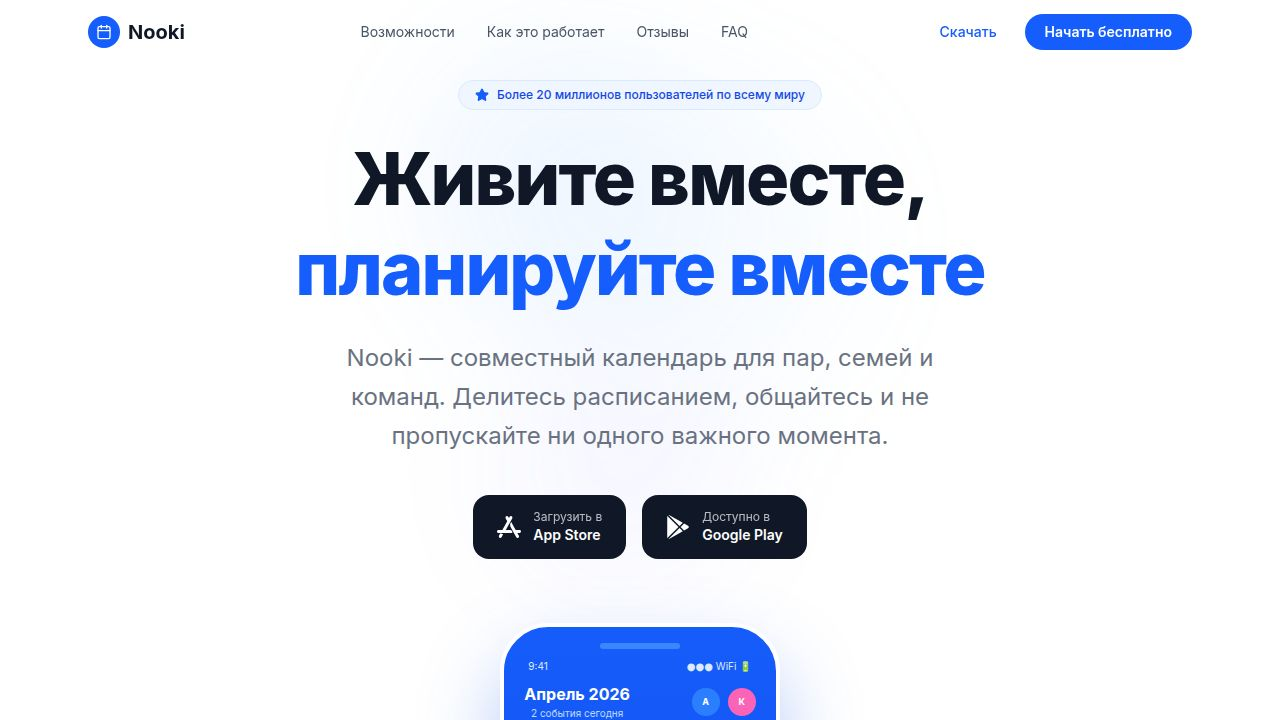
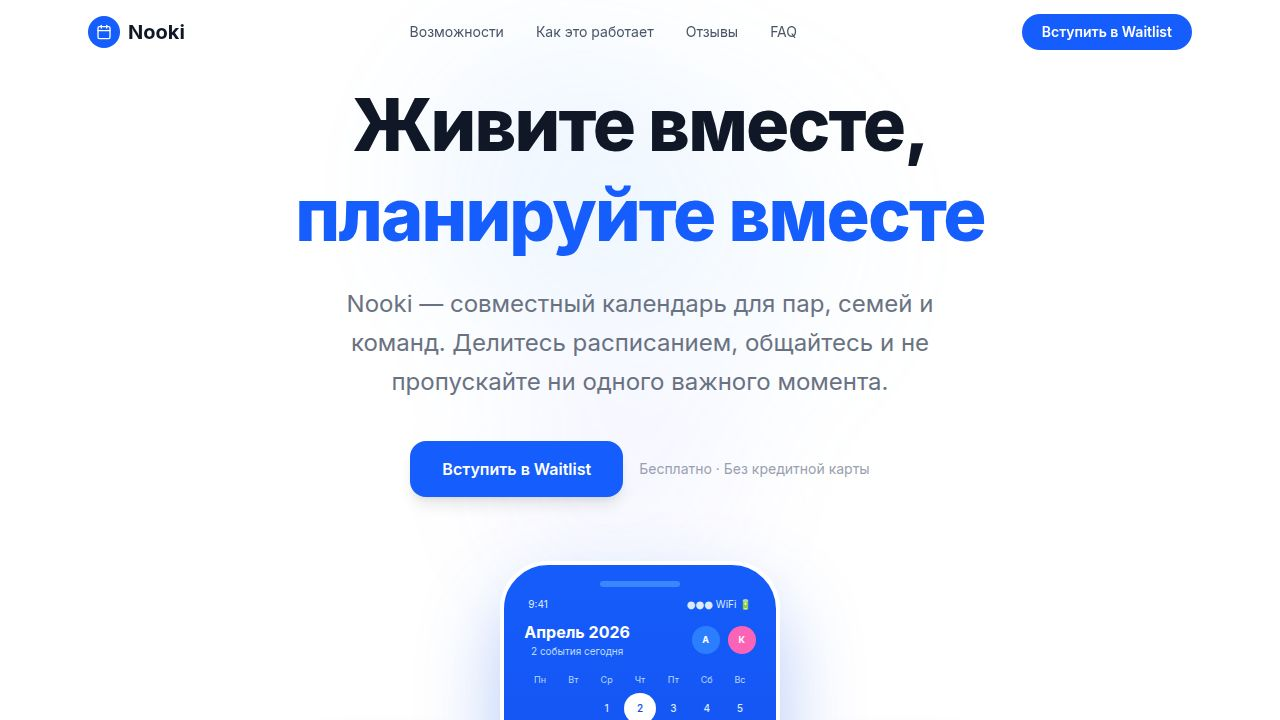
Add a waitlist modal to collect user emails for beta access
Introduce a new WaitlistModal component with email input and submission functionality, integrated into the LandingPage and triggered by "Вступить в Waitlist" buttons.

Replit-Commit-Author: Agent
Replit-Commit-Session-Id: f7ec6ea5-53ca-4b25-ad01-413de78aee72
Replit-Commit-Checkpoint-Type: full_checkpoint
Replit-Commit-Event-Id: 9b53ad21-6a2e-44de-bc68-de3e69654209
Replit-Commit-Screenshot-Url: https://storage.googleapis.com/screenshot-production-us-central1/f233b89e-9c47-4a60-af02-c6057f2ba10c/f7ec6ea5-53ca-4b25-ad01-413de78aee72/hpmHCHk
Replit-Helium-Checkpoint-Created: true

Changed region(s): [[0.2188, 0.1222, 0.7812, 1.0], [0.2812, 0.0306, 0.625, 0.0611], [0.7188, 0.0306, 0.9375, 0.0611]]

diff --git a/artifacts/nooki-landing/src/components/WaitlistModal.tsx b/artifacts/nooki-landing/src/components/WaitlistModal.tsx
@@ -1,0 +1,208 @@
+import { useState, useEffect, useRef } from "react";
+import { X, Mail, CheckCircle } from "lucide-react";
+
+interface WaitlistModalProps {
+  isOpen: boolean;
+  onClose: () => void;
+}
+
+export default function WaitlistModal({ isOpen, onClose }: WaitlistModalProps) {
+  const [email, setEmail] = useState("");
+  const [submitted, setSubmitted] = useState(false);
+  const [loading, setLoading] = useState(false);
+  const inputRef = useRef<HTMLInputElement>(null);
+
+  useEffect(() => {
+    if (isOpen) {
+      document.body.style.overflow = "hidden";
+      setTimeout(() => inputRef.current?.focus(), 100);
+    } else {
+      document.body.style.overflow = "";
+    }
+    return () => { document.body.style.overflow = ""; };
+  }, [isOpen]);
+
+  useEffect(() => {
+    const handleKey = (e: KeyboardEvent) => {
+      if (e.key === "Escape") onClose();
+    };
+    if (isOpen) window.addEventListener("keydown", handleKey);
+    return () => window.removeEventListener("keydown", handleKey);
+  }, [isOpen, onClose]);
+
+  function handleSubmit(e: React.FormEvent) {
+    e.preventDefault();
+    if (!email.trim()) return;
+    setLoading(true);
+    setTimeout(() => {
+      setLoading(false);
+      setSubmitted(true);
+    }, 900);
+  }
+
+  function handleClose() {
+    onClose();
+    setTimeout(() => {
+      setSubmitted(false);
+      setEmail("");
+      setLoading(false);
+    }, 300);
+  }
+
+  if (!isOpen) return null;
+
+  return (
+    <div
+      className="fixed inset-0 z-[100] flex items-center justify-center px-4"
+      aria-modal="true"
+      role="dialog"
+      data-testid="modal-waitlist"
+    >
+      {/* Backdrop */}
+      <div
+        className="absolute inset-0 bg-black/40 backdrop-blur-sm"
+        style={{
+          animation: "fadeIn 0.2s ease",
+        }}
+        onClick={handleClose}
+        data-testid="modal-backdrop"
+      />
+
+      {/* Card */}
+      <div
+        className="relative z-10 w-full max-w-md"
+        style={{
+          animation: "slideUp 0.3s cubic-bezier(0.34, 1.56, 0.64, 1)",
+        }}
+      >
+        <div className="bg-white rounded-3xl shadow-2xl overflow-hidden">
+          {/* Top gradient strip */}
+          <div className="h-1.5 bg-gradient-to-r from-blue-500 via-blue-600 to-indigo-600" />
+
+          <div className="px-8 pt-8 pb-8">
+            {/* Close button */}
+            <button
+              onClick={handleClose}
+              className="absolute top-5 right-5 w-8 h-8 rounded-full bg-gray-100 hover:bg-gray-200 flex items-center justify-center transition-colors"
+              data-testid="button-modal-close"
+              aria-label="Закрыть"
+            >
+              <X className="w-4 h-4 text-gray-500" />
+            </button>
+
+            {!submitted ? (
+              <>
+                {/* Icon */}
+                <div className="w-14 h-14 bg-blue-50 rounded-2xl flex items-center justify-center mb-5">
+                  <Mail className="w-7 h-7 text-blue-600" />
+                </div>
+
+                {/* Heading */}
+                <h2 className="text-2xl font-extrabold text-gray-900 mb-2 leading-tight" data-testid="modal-title">
+                  Станьте первым пользователем Nooki
+                </h2>
+                <p className="text-gray-500 text-sm mb-6 leading-relaxed" data-testid="modal-subtitle">
+                  Оставьте свой email, и мы пригласим вас в закрытую бету
+                </p>
+
+                {/* Form */}
+                <form
+                  onSubmit={handleSubmit}
+                  data-netlify="true"
+                  name="waitlist"
+                  data-testid="form-waitlist"
+                >
+                  <input type="hidden" name="form-name" value="waitlist" />
+                  <input type="hidden" name="source" value="promo_popup" />
+
+                  <div className="mb-4">
+                    <label htmlFor="waitlist-email" className="block text-xs font-semibold text-gray-600 mb-1.5 uppercase tracking-wide">
+                      Email
+                    </label>
+                    <input
+                      ref={inputRef}
+                      id="waitlist-email"
+                      type="email"
+                      name="email"
+                      required
+                      value={email}
+                      onChange={e => setEmail(e.target.value)}
+                      placeholder="you@example.com"
+                      className="w-full px-4 py-3 rounded-xl border border-gray-200 bg-gray-50 text-gray-900 text-sm placeholder-gray-400 focus:outline-none focus:ring-2 focus:ring-blue-500 focus:border-transparent transition-all"
+                      data-testid="input-email"
+                    />
+                  </div>
+
+                  <button
+                    type="submit"
+                    disabled={loading || !email.trim()}
+                    className="w-full py-3.5 rounded-xl text-sm font-bold text-white transition-all relative overflow-hidden"
+                    style={{
+                      background: loading || !email.trim()
+                        ? "#93c5fd"
+                        : "linear-gradient(135deg, #2563eb 0%, #1d4ed8 100%)",
+                      boxShadow: loading || !email.trim() ? "none" : "0 4px 20px rgba(37,99,235,0.35)",
+                    }}
+                    data-testid="button-submit-waitlist"
+                  >
+                    {loading ? (
+                      <span className="flex items-center justify-center gap-2">
+                        <svg className="animate-spin w-4 h-4 text-white" fill="none" viewBox="0 0 24 24">
+                          <circle className="opacity-25" cx="12" cy="12" r="10" stroke="currentColor" strokeWidth="4" />
+                          <path className="opacity-75" fill="currentColor" d="M4 12a8 8 0 018-8V0C5.373 0 0 5.373 0 12h4z" />
+                        </svg>
+                        Отправляем...
+                      </span>
+                    ) : (
+                      "Получить доступ"
+                    )}
+                  </button>
+                </form>
+
+                <p className="text-center text-xs text-gray-400 mt-4">
+                  Без спама. Только важное — обещаем.
+                </p>
+              </>
+            ) : (
+              /* Success state */
+              <div className="text-center py-4" data-testid="modal-success">
+                <div
+                  className="w-16 h-16 bg-green-50 rounded-full flex items-center justify-center mx-auto mb-5"
+                  style={{ animation: "popIn 0.4s cubic-bezier(0.34, 1.56, 0.64, 1)" }}
+                >
+                  <CheckCircle className="w-8 h-8 text-green-500" />
+                </div>
+                <h3 className="text-xl font-extrabold text-gray-900 mb-2">Спасибо!</h3>
+                <p className="text-gray-500 text-sm leading-relaxed mb-6">
+                  Проверьте почту в ближайшее время — мы пришлём приглашение, как только откроем доступ.
+                </p>
+                <button
+                  onClick={handleClose}
+                  className="px-8 py-3 rounded-xl text-sm font-bold text-white bg-blue-600 hover:bg-blue-700 transition-colors"
+                  data-testid="button-success-close"
+                >
+                  Отлично!
+                </button>
+              </div>
+            )}
+          </div>
+        </div>
+      </div>
+
+      <style>{`
+        @keyframes fadeIn {
+          from { opacity: 0; }
+          to { opacity: 1; }
+        }
+        @keyframes slideUp {
+          from { opacity: 0; transform: translateY(24px) scale(0.97); }
+          to { opacity: 1; transform: translateY(0) scale(1); }
+        }
+        @keyframes popIn {
+          from { opacity: 0; transform: scale(0.5); }
+          to { opacity: 1; transform: scale(1); }
+        }
+      `}</style>
+    </div>
+  );
+}

diff --git a/artifacts/nooki-landing/src/pages/LandingPage.tsx b/artifacts/nooki-landing/src/pages/LandingPage.tsx
@@ -1,5 +1,6 @@
-import { useState, useEffect, useRef } from "react";
+import { useState, useEffect, useRef, useCallback } from "react";
 import { Menu, X, ChevronDown, Calendar, Users, Bell, Heart, Star, MessageCircle, Shield, Zap, Globe, Award } from "lucide-react";
+import WaitlistModal from "@/components/WaitlistModal";
 
 function useScrollAnimation() {
   const ref = useRef<HTMLDivElement>(null);
@@ -36,7 +37,7 @@ function AnimatedSection({ children, className = "", delay = 0 }: { children: Re
   );
 }
 
-function Navbar() {
+function Navbar({ onOpenModal }: { onOpenModal: () => void }) {
   const [menuOpen, setMenuOpen] = useState(false);
   const [scrolled, setScrolled] = useState(false);
 
@@ -69,14 +70,13 @@ function Navbar() {
         </nav>
 
         <div className="hidden md:flex items-center gap-3" data-testid="nav-cta">
-          <a
-            href="#waitlist"
-            onClick={e => { e.preventDefault(); document.getElementById("waitlist")?.scrollIntoView({ behavior: "smooth" }); }}
+          <button
+            onClick={onOpenModal}
             className="px-5 py-2 text-sm font-semibold text-white bg-blue-600 hover:bg-blue-700 rounded-full transition-colors"
             data-testid="button-cta-nav"
           >
             Вступить в Waitlist
-          </a>
+          </button>
         </div>
 
         <button
@@ -94,21 +94,20 @@ function Navbar() {
           <a href="#how-it-works" className="text-sm text-gray-700" onClick={() => setMenuOpen(false)} data-testid="link-how-mobile">Как это работает</a>
           <a href="#reviews" className="text-sm text-gray-700" onClick={() => setMenuOpen(false)} data-testid="link-reviews-mobile">Отзывы</a>
           <a href="#faq" className="text-sm text-gray-700" onClick={() => setMenuOpen(false)} data-testid="link-faq-mobile">FAQ</a>
-          <a
-            href="#waitlist"
+          <button
             className="px-5 py-2.5 text-sm font-semibold text-white bg-blue-600 rounded-full text-center"
-            onClick={e => { e.preventDefault(); setMenuOpen(false); document.getElementById("waitlist")?.scrollIntoView({ behavior: "smooth" }); }}
+            onClick={() => { setMenuOpen(false); onOpenModal(); }}
             data-testid="button-cta-mobile"
           >
             Вступить в Waitlist
-          </a>
+          </button>
         </div>
       )}
     </header>
   );
 }
 
-function HeroSection() {
+function HeroSection({ onOpenModal }: { onOpenModal: () => void }) {
   return (
     <section className="relative min-h-screen flex flex-col items-center justify-center pt-20 pb-16 overflow-hidden bg-white" data-testid="section-hero">
       {/* Background gradient blobs */}
@@ -129,14 +128,13 @@ function HeroSection() {
         </p>
 
         <div className="flex flex-col sm:flex-row items-center justify-center gap-4 mb-16" id="download" data-testid="hero-download-buttons">
-          <a
-            href="#waitlist"
-            onClick={e => { e.preventDefault(); document.getElementById("waitlist")?.scrollIntoView({ behavior: "smooth" }); }}
+          <button
+            onClick={onOpenModal}
             className="px-8 py-4 bg-blue-600 text-white rounded-2xl hover:bg-blue-700 transition-colors font-semibold text-base shadow-lg"
             data-testid="button-waitlist-hero"
           >
             Вступить в Waitlist
-          </a>
+          </button>
           <span className="text-sm text-gray-400">Бесплатно · Без кредитной карты</span>
         </div>
 
@@ -658,7 +656,7 @@ function ReviewsSection() {
   );
 }
 
-function PlansSection() {
+function PlansSection({ onOpenModal }: { onOpenModal: () => void }) {
   const plans = [
     {
       name: "Basic",
@@ -743,7 +741,7 @@ function PlansSection() {
                 </ul>
 
                 <button
-                  onClick={() => document.getElementById("waitlist")?.scrollIntoView({ behavior: "smooth" })}
+                  onClick={onOpenModal}
                   className={`w-full py-3 rounded-xl text-sm font-semibold transition-all ${
                     plan.highlight
                       ? "bg-white text-blue-600 hover:bg-blue-50"
@@ -827,7 +825,7 @@ function FaqSection() {
   );
 }
 
-function DownloadCTA() {
+function DownloadCTA({ onOpenModal }: { onOpenModal: () => void }) {
   return (
     <section id="waitlist" className="py-24 bg-gradient-to-br from-blue-600 via-blue-700 to-indigo-800 relative overflow-hidden" data-testid="section-download-cta">
       <div className="absolute inset-0 opacity-10">
@@ -850,7 +848,7 @@ function DownloadCTA() {
 
           <div className="flex items-center justify-center mb-10">
             <button
-              onClick={() => document.getElementById("waitlist")?.scrollIntoView({ behavior: "smooth" })}
+              onClick={onOpenModal}
               className="px-10 py-4 bg-white text-blue-600 rounded-2xl hover:bg-blue-50 transition-colors font-bold text-base shadow-lg"
               data-testid="button-waitlist-cta"
             >
@@ -941,19 +939,24 @@ function Footer() {
 }
 
 export default function LandingPage() {
+  const [modalOpen, setModalOpen] = useState(false);
+  const openModal = useCallback(() => setModalOpen(true), []);
+  const closeModal = useCallback(() => setModalOpen(false), []);
+
   return (
     <div className="min-h-screen" data-testid="landing-page">
-      <Navbar />
-      <HeroSection />
+      <Navbar onOpenModal={openModal} />
+      <HeroSection onOpenModal={openModal} />
       <FeaturesSection />
       <ShareSection />
       <HowItWorksSection />
       <ChatSection />
       <ReviewsSection />
-      <PlansSection />
+      <PlansSection onOpenModal={openModal} />
       <FaqSection />
-      <DownloadCTA />
+      <DownloadCTA onOpenModal={openModal} />
       <Footer />
+      <WaitlistModal isOpen={modalOpen} onClose={closeModal} />
     </div>
   );
 }
